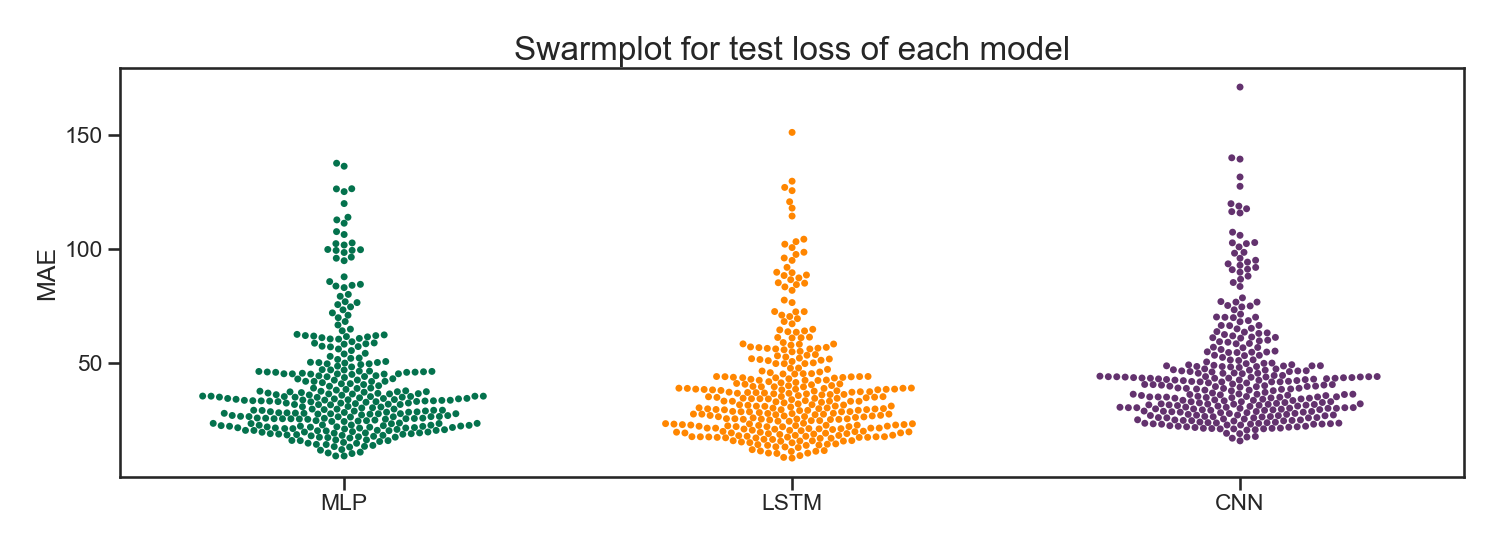
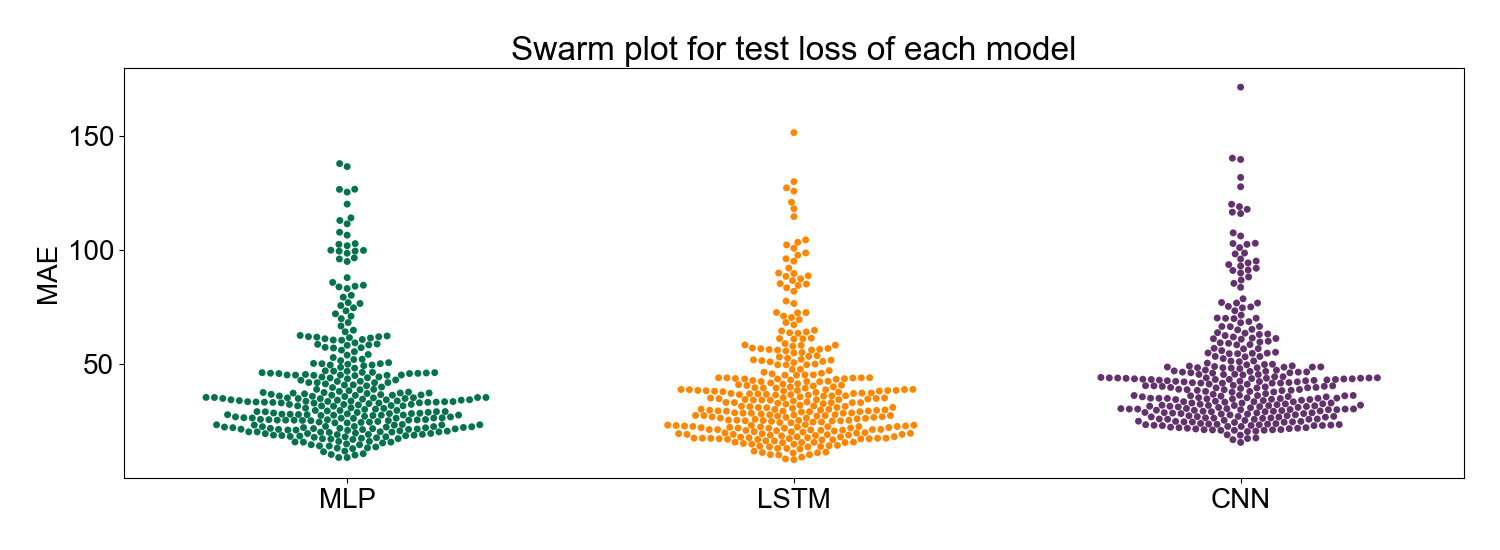
created random plots for visualization

diff --git a/savedModels/bestModels/plotResults.py b/savedModels/bestModels/plotResults.py
@@ -1,0 +1,119 @@
+import pickle
+import matplotlib.pyplot as plt
+import numpy as np
+import pandas as pd
+import seaborn as sns
+import random
+
+plt.rcParams.update({'font.size': 20})
+
+def MAE(p_real, p_pred):
+    return np.mean(np.abs(p_real - p_pred))
+
+
+def plotLoss(lstmLoss,cnnLoss,mlpLoss):
+    data = {
+        "MLP": mlpLoss,
+        "LSTM": lstmLoss,
+        "CNN": cnnLoss,        
+    }
+    df =  pd.DataFrame(data, columns=["MLP","LSTM","CNN"])
+    df.index.name = 'TEST SAMPLE'
+    
+
+    sns.set_palette(['#04724D', '#FF8600','#63326E'])
+    plt.figure(figsize=(15,5.5))
+
+    ax = sns.swarmplot(data=df)
+    sns.set(font_scale=2)
+    ax.set(ylabel='MAE', title="Swarm plot for test loss of each model")
+    plt.tight_layout() 
+    plt.savefig('./plots/losses-.png')
+    
+    plt.show()
+    plt.close()
+
+
+def plotSeveralPred(lstmTestTarget, cnnTestTarget, mlpTestTarget, dirStr):
+    ax = lstmTestTarget.plot(x='DateTime', y='Pred-Unscaled', label="LSTM",  color='#FF8600', style='--',figsize=(16,5.5))
+    cnnTestTarget.plot(x='DateTime', y='Pred-Unscaled', label="CNN", ax=ax, color='#63326E', style='-.')
+    mlpTestTarget.plot(x='DateTime', y='Pred-Unscaled', label="MLP", ax=ax, color='#04724D', style=':')
+    lstmTestTarget[['Target', 'DateTime']].plot(x='DateTime', ax=ax, label="Observed value", color='#174D7F',figsize=(16,5.5))
+
+
+    ax.set_xlabel('Date')
+    ax.set_ylabel('SEK/MWh')
+    ax.legend(["LSTM", "CNN", "MLP", "Observed value",])
+
+    plt.title(dirStr + " overall predicted 10-days ahead for SE1")
+    plt.tight_layout() 
+    plt.savefig("./plots/overall-" + dirStr +'.png')
+    plt.show()
+
+
+def plotPred(df, modelName, no):
+    ax = df[['Target', 'DateTime']].plot(x='DateTime', legend="observed", color='#174D7F',figsize=(16,5.5))
+    #Plot predicted values of week-df
+    df.plot(x='DateTime', y='Pred-Unscaled', ax=ax, color="r", style='--')
+    ax.set_xlabel('Date')
+    ax.set_ylabel('SEK/MWh')
+    ax.legend(['Observed values','Prediction'])
+    #ax.set_ylim([150,350])
+
+    plt.title("Random 10-days ahead prediction of " + modelName + " number: " + no)
+    plt.tight_layout() 
+    plt.savefig("./plots/random/" + modelName + "-" + no +'.png')
+
+
+
+def plotResults(lstmTestTarget, cnnTestTarget, mlpTestTarget, plotAllLosses=True, plotBestWorst=True, plotRandom=True):
+    lstmLoss = []
+    cnnLoss = []
+    mlpLoss = []
+
+    for i in range(len(lstmTestTarget)):
+        lstmLoss.append(MAE(lstmTestTarget[i]["Target"], lstmTestTarget[i]["Pred-Unscaled"]))
+        cnnLoss.append(MAE(cnnTestTarget[i]["Target"], cnnTestTarget[i]["Pred-Unscaled"]))
+        mlpLoss.append(MAE(mlpTestTarget[i]["Target"], mlpTestTarget[i]["Pred-Unscaled"]))
+
+    if plotAllLosses:
+        plotLoss(lstmLoss, cnnLoss, mlpLoss)
+
+
+    if plotBestWorst:
+        totalLoss = np.array(lstmLoss)+np.array(cnnLoss)+np.array(mlpLoss)
+        maxIdx = np.argmax(totalLoss)
+        minIdx = np.argmin(totalLoss)
+        plotSeveralPred(lstmTestTarget[maxIdx], cnnTestTarget[maxIdx], mlpTestTarget[maxIdx], "Worst")
+        plotSeveralPred(lstmTestTarget[minIdx], cnnTestTarget[minIdx], mlpTestTarget[minIdx], "Best")
+    
+    random.seed(10) #SKITBRA!!!
+    #random.seed(77) #SKITBRA!!!
+    
+    if plotRandom:
+        targets = {"LSTM": lstmTestTarget, "CNN": cnnTestTarget}
+        for key, value in targets.items():
+            print(key)
+            randomIdx = random.sample(range(0, len(lstmTestTarget)), 3)
+            print(randomIdx)
+            for j in range(len(randomIdx)):
+                plotPred(value[randomIdx[j]], key, str(j+1))
+        
+
+    
+
+    
+
+
+
+#A function to load models and plot best and worst, and their losses
+if __name__ == "__main__":
+    lstmString = "LSTM_13.384791__NH1_64__NH2_64__DROP1_0.3__DROP2_0.3__EPOCHS_1400__BS_64__LR_0.001__PAT_300__DAY_False__WEEK_True"
+    cnnString = "CNN_14.282786__NH1_64__NH2_256__NH3_512__FC_64__DROP1_0__DROP2_0__DROP3_0__EPOCHS_1400__BS_64__LR_0.001__PAT_300__DAY_False__WEEK_True"
+    mlpString = "MLP_15.640279__NH1_1024__NH2_512__NH3_512__DROP1_0.5__DROP2_0.3__DROP3_0.3__EPOCHS_1200__BS_64__LR_0.001__PAT_300__DAY_False__WEEK_True"
+
+    lstmResult = pickle.load(open("./week/" + lstmString + ".pkl", "rb"))
+    cnnResult = pickle.load(open("./week/" + cnnString + ".pkl", "rb"))
+    mlpResult = pickle.load(open("./week/" + mlpString + ".pkl", "rb"))
+
+    plotResults(lstmResult["dataDict"]["test"][1], cnnResult["dataDict"]["test"][1], mlpResult["dataDict"]["test"][1],plotAllLosses=False, plotBestWorst=False, plotRandom=True)
